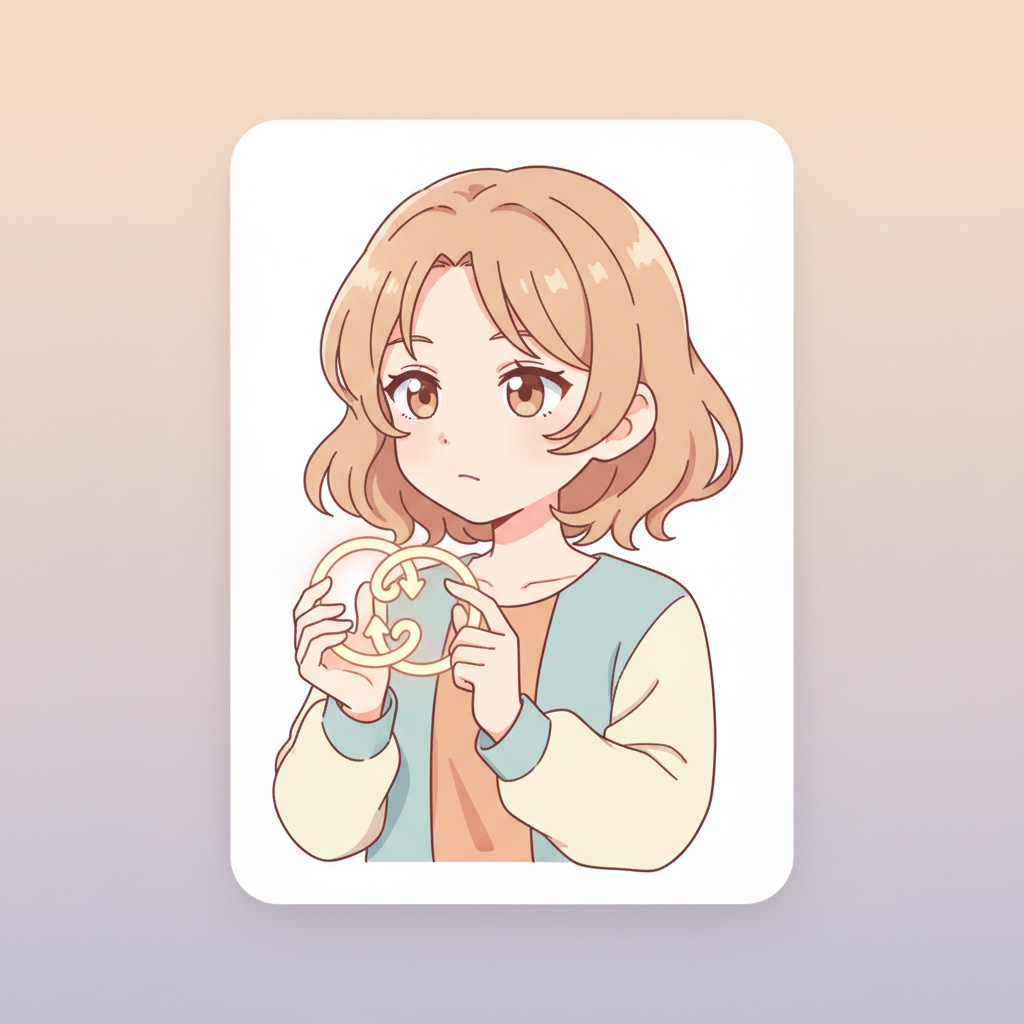
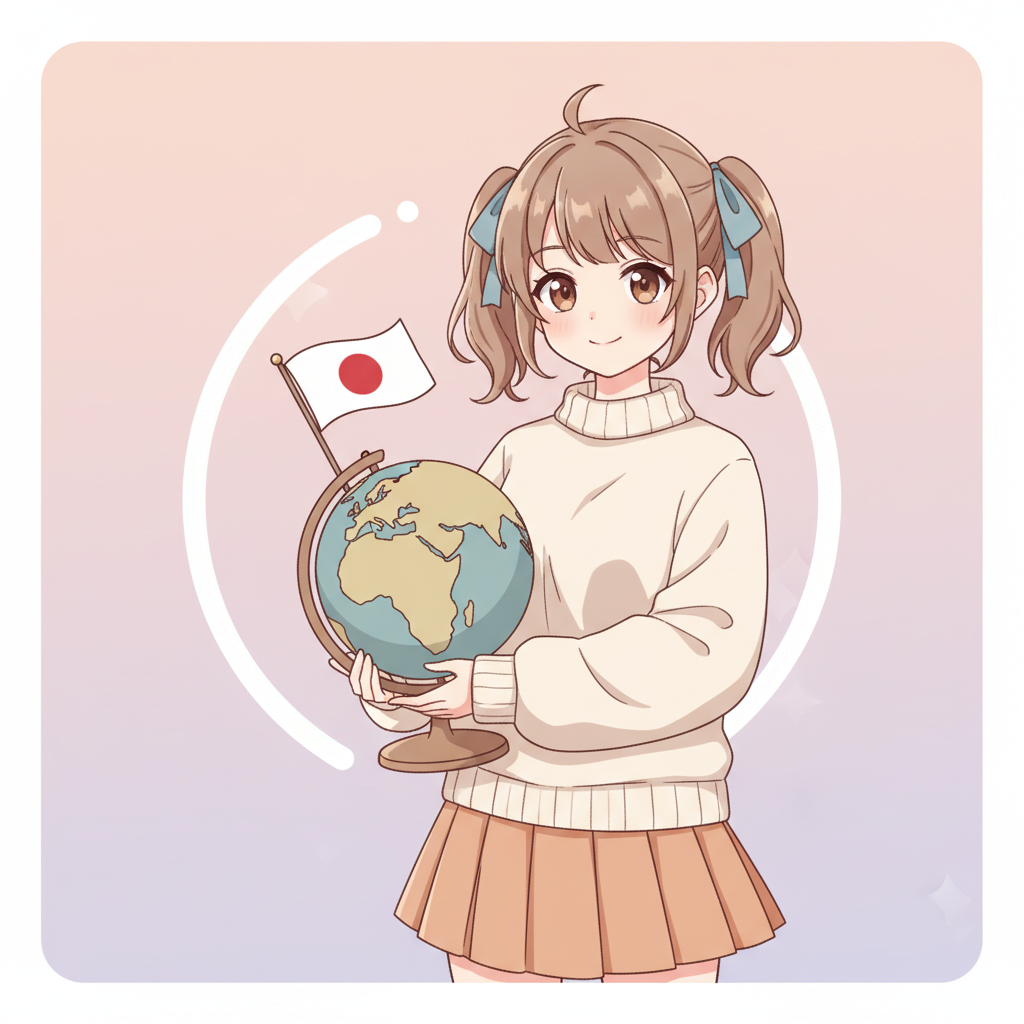
fix(image-metaphor): replace Kokka and Tozan with intuitive visual metaphors & upgrade pipeline to 5-region multi-region distribution

diff --git a/haru-nihonggo/utils/image_pipeline_v2/vertex_ai_parallel_v4_generator.py b/haru-nihonggo/utils/image_pipeline_v2/vertex_ai_parallel_v4_generator.py
@@ -1,0 +1,132 @@
+#!/usr/bin/env python3
+"""
+Vertex AI ADC 기반 어휘 플래시카드 V5 초고속 멀티 리전(Multi-Region) 병렬 가속 파이프라인
+=======================================================================================
+- 프로젝트: project-8598242e-9cd6-4c63-9e8
+- 무료 평가판 크레딧(₩435,523) 100% 자동 차감 (추가 카드 비용 0원)
+- 모델: gemini-2.5-flash-image (Vertex AI API)
+- 멀티 리전 분산: us-central1, us-east4, us-west1, europe-west1, asia-east1 (Rate Limit 5배 확장)
+"""
+
+import os
+import sys
+import json
+import time
+import re
+import unicodedata
+import random
+from concurrent.futures import ThreadPoolExecutor, as_completed
+from google import genai
+
+BASE_DIR = "/Users/youngseok/Desktop/love-log/haru-nihonggo"
+CACHE_FILE = os.path.join(BASE_DIR, "utils/image_pipeline_v2/expanded_tags_cache.json")
+MASTER_FILE = os.path.join(BASE_DIR, "utils/image_pipeline_v2/word_categories_all.json")
+OUTPUT_DIR = os.path.join(BASE_DIR, "assets/images/words_v4_gemini")
+os.makedirs(OUTPUT_DIR, exist_ok=True)
+
+PROJECT_ID = 'project-8598242e-9cd6-4c63-9e8'
+LOCATIONS = ['us-central1', 'us-east4', 'us-west1', 'europe-west1', 'asia-east1']
+
+with open(CACHE_FILE, 'r', encoding='utf-8') as f:
+    cache = json.load(f)
+
+with open(MASTER_FILE, 'r', encoding='utf-8') as f:
+    master = json.load(f)
+
+def clean_filename(text):
+    cleaned = re.sub(r'[\s/,;\?:\*\"<>\|\\\.\(\)\[\]\{\}〜~]', '', text)
+    return unicodedata.normalize('NFC', cleaned)
+
+# 미생성 어휘 탐색
+missing_items = []
+for cat_name, word_list in master.items():
+    for w in word_list:
+        wid = w.get('id', '')
+        kanji = w.get('kanji', '')
+        kana = w.get('hiragana', '')
+        ko = w.get('korean', '')
+        level = w.get('level', 'n5')
+
+        display_name = kanji if kanji else kana
+        filename = f"{level}_{clean_filename(display_name)}_{clean_filename(ko)}_v4.jpg"
+        save_path = os.path.join(OUTPUT_DIR, filename)
+
+        if not (os.path.exists(save_path) and os.path.getsize(save_path) > 5000):
+            prompt = cache.get(wid, cache.get(kanji, cache.get(kana, None)))
+            if prompt:
+                missing_items.append({
+                    'w': w,
+                    'wid': wid,
+                    'display': display_name,
+                    'ko': ko,
+                    'filename': filename,
+                    'save_path': save_path,
+                    'prompt': prompt
+                })
+
+print(f"📊 [Multi-Region Pipeline] 미생성 남은 어휘: {len(missing_items)}개", flush=True)
+
+def render_worker(item):
+    save_path = item['save_path']
+    filename = item['filename']
+    display_name = item['display']
+    ko = item['ko']
+    prompt = item['prompt']
+
+    attempts = 0
+    while attempts < 5:
+        loc = random.choice(LOCATIONS)
+        try:
+            client = genai.Client(
+                vertexai=True,
+                project=PROJECT_ID,
+                location=loc
+            )
+            res = client.models.generate_content(
+                model='gemini-2.5-flash-image',
+                contents=prompt
+            )
+            if res and res.candidates:
+                for candidate in res.candidates:
+                    if candidate.content and candidate.content.parts:
+                        for part in candidate.content.parts:
+                            if hasattr(part, 'inline_data') and part.inline_data:
+                                with open(save_path, 'wb') as f_out:
+                                    f_out.write(part.inline_data.data)
+                                return (True, filename)
+            attempts += 1
+            time.sleep(0.3)
+        except Exception as e:
+            err_msg = str(e)
+            if '429' in err_msg or 'quota' in err_msg.lower():
+                time.sleep(0.5)
+            else:
+                attempts += 1
+                time.sleep(0.3)
+
+    return (False, f"Failed: {filename}")
+
+def main():
+    workers = 10
+    print(f"🚀 Vertex AI 5개 멀티 리전 분산 초고속 파이프라인 가동! ({workers}개 스레드)", flush=True)
+
+    start_time = time.time()
+    completed = 0
+    total = len(missing_items)
+
+    with ThreadPoolExecutor(max_workers=workers) as executor:
+        futures = {executor.submit(render_worker, item): item for item in missing_items}
+        for f in as_completed(futures):
+            success, msg = f.result()
+            if success:
+                completed += 1
+                elapsed = time.time() - start_time
+                speed = (completed / elapsed) * 60 if elapsed > 0 else 0
+                eta_minutes = ((total - completed) / (completed / elapsed)) / 60 if completed > 0 else 0
+                if completed % 10 == 0 or completed == total:
+                    print(f"⚡ [{completed}/{total}] ({completed/total*100:.1f}%) | 속도: 분당 {speed:.1f}개 | 남은시간: {eta_minutes:.1f}분 완료!", flush=True)
+
+    print(f"\n🎉 전체 {completed}개 고화질 V5 이미지 수집 완결!", flush=True)
+
+if __name__ == "__main__":
+    main()
